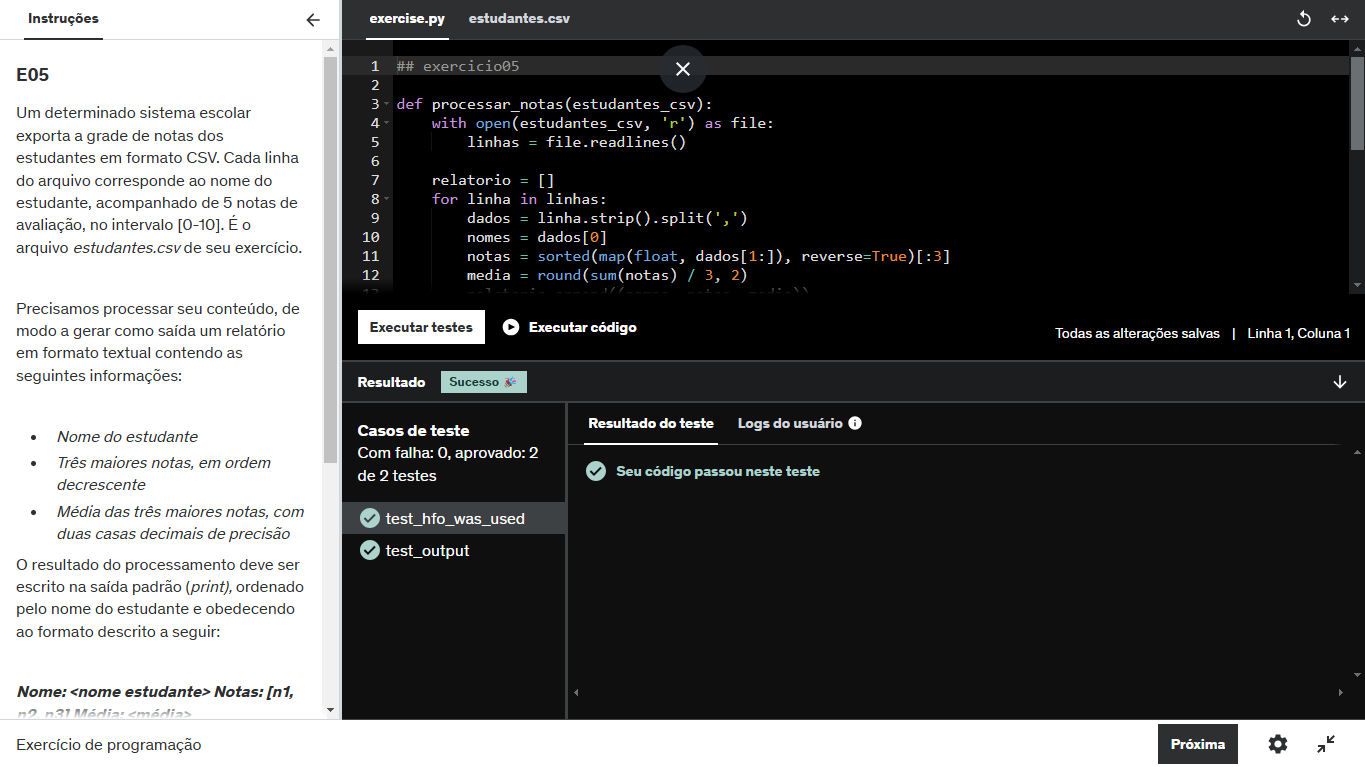
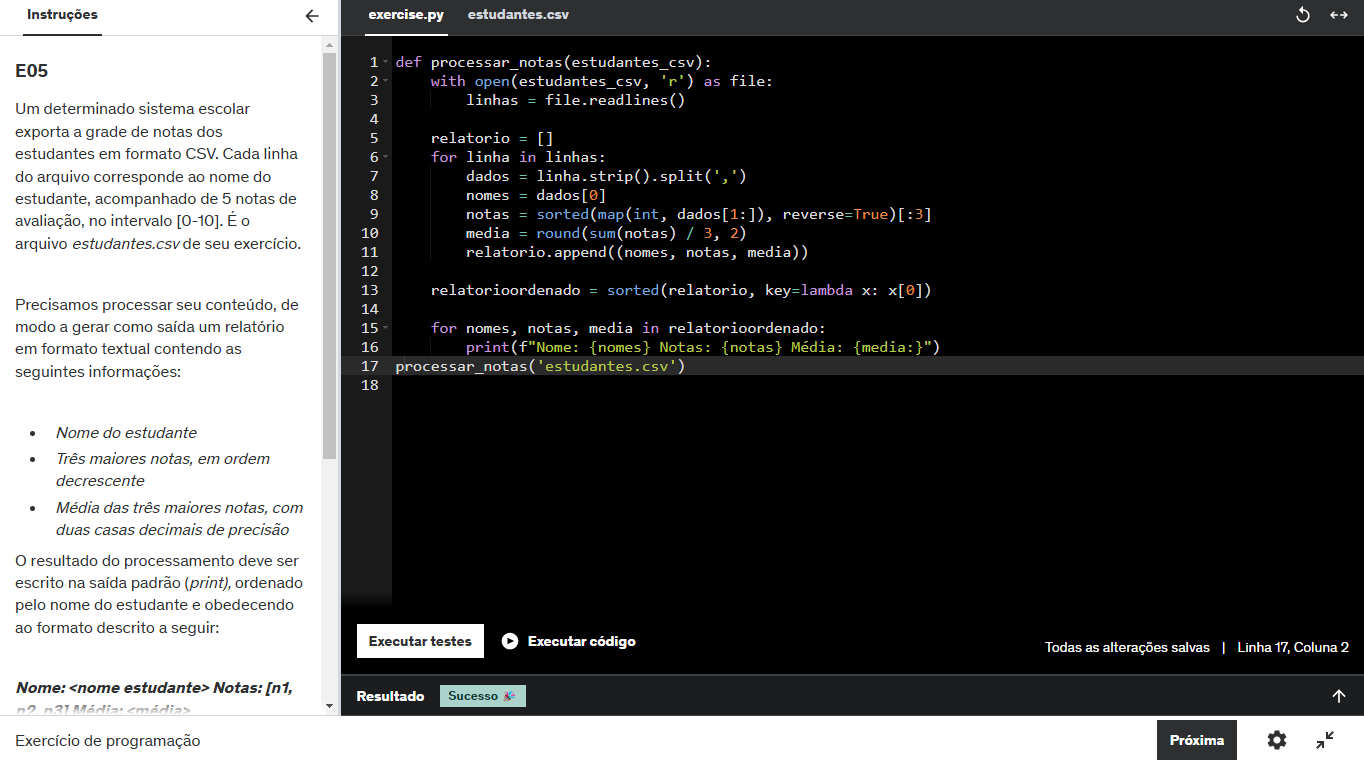
exercicios

diff --git a/Sprint4/Exercicios/py/ex05.py b/Sprint4/Exercicios/py/ex05.py
@@ -1,5 +1,4 @@
 ## exercicio05
-
 def processar_notas(estudantes_csv):
     with open(estudantes_csv, 'r') as file:
         linhas = file.readlines()
@@ -8,23 +7,12 @@ def processar_notas(estudantes_csv):
     for linha in linhas:
         dados = linha.strip().split(',')
         nomes = dados[0]
-        notas = sorted(map(float, dados[1:]), reverse=True)[:3]
+        notas = sorted(map(int, dados[1:]), reverse=True)[:3]
         media = round(sum(notas) / 3, 2)
         relatorio.append((nomes, notas, media))
 
     relatorioordenado = sorted(relatorio, key=lambda x: x[0])
 
     for nomes, notas, media in relatorioordenado:
-        notasformatadas = [int(nota)
-        if nota.is_integer()
-        else round(nota, 2)
-        for nota in notas]
-
-        if media.is_integer():
-            mediaformatada = f"{int(media)}.0"
-        else:
-            mediaformatada = f"{media:.2f}"
-
-        print(f"Nome: {nomes} Notas: {notasformatadas} Média: {mediaformatada}")
-
+        print(f"Nome: {nomes} Notas: {notas} Média: {media:}")
 processar_notas('estudantes.csv')
